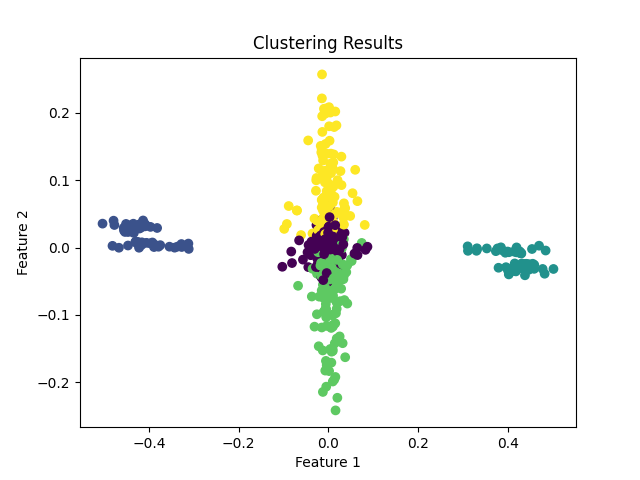
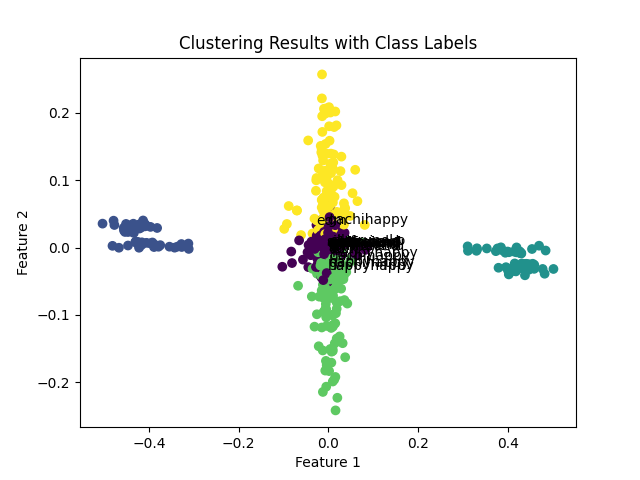
.DS_Store .git .github .gitignore Dockerfile README.md clustering Front

Changed region(s): [[0.2812, 0.0625, 0.75, 0.125], [0.5, 0.4375, 0.6562, 0.5625]]

diff --git a/clustering/python/try_min.py b/clustering/python/try_min.py
@@ -9,10 +9,23 @@ from sklearn.decomposition import PCA
 from sklearn.metrics import confusion_matrix
 import seaborn as sns
 from collections import Counter
+from scipy.interpolate import interp1d
+from sklearn.metrics import accuracy_score
 
 HAND_KEYPOINTS = [5, 6, 7, 8, 9, 10]  # 例: 手のキーポイント
 LEG_KEYPOINTS = [11, 12, 13, 14, 15, 16]      # 例: 足のキーポイント
 TORSO_KEYPOINTS = [1, 2, 3, 4] # 例: 体幹のキーポイント
+
+# クラスラベルの取得
+def get_class_labels(folder_path):
+    class_labels = []
+    for class_name in os.listdir(folder_path):
+        class_dir = os.path.join(folder_path, class_name)
+        if os.path.isdir(class_dir):
+            for filename in os.listdir(class_dir):
+                if filename.endswith('.json'):
+                    class_labels.append(class_name)
+    return class_labels
 
 # JSONファイルからキーポイントデータを読み込む関数
 def load_keypoints_from_json(folder_path):
@@ -98,6 +111,31 @@ def extract_features_for_parts(optical_flows):
         features.append(video_features)
     return features
 
+# 特徴量のリサンプリング
+def resample_features(features, target_length = 40):
+    resampled_features = []
+    for video_features in features:
+        # 現在のフレーム数
+        current_length = len(video_features)
+        # リサンプリングが必要な場合
+        if current_length != target_length:
+            # 時間軸を作成
+            time_axis = np.linspace(0, 1, current_length)
+            target_time_axis = np.linspace(0, 1, target_length)
+            # 各特徴量に対して線形補間を行い、リサンプリング
+            resampled_video_features = []
+            for i in range(len(video_features[0])):
+                interpolator = interp1d(time_axis, [feature[i] for feature in video_features], kind='linear')
+                resampled_feature = interpolator(target_time_axis)
+                resampled_video_features.append(resampled_feature)
+            # 転置して元の形状に戻す
+            resampled_video_features = np.transpose(resampled_video_features)
+        else:
+            resampled_video_features = video_features
+        resampled_features.append(resampled_video_features)
+    return resampled_features
+
+
 # KMeansでクラスタリング
 def cluster_features(features, n_clusters):
     # 特徴量を2次元配列に変換
@@ -111,15 +149,36 @@ def cluster_features(features, n_clusters):
     print(f"Total data points: {len(labels)}")
     return labels
 
+# 正誤率の計算
+def calculate_accuracy(true_labels, predicted_labels):
+    accuracy = accuracy_score(true_labels, predicted_labels)
+    return accuracy
+
+# ビデオ単位でクラスタラベルを決定
+def assign_labels_to_videos(features, labels):
+    video_labels = []
+    start_idx = 0
+    for video_features in features:
+        end_idx = start_idx + len(video_features)
+        video_cluster_labels = labels[start_idx:end_idx]
+        # 最も頻繁に割り当てられたラベルをビデオのラベルとする
+        most_common_label = Counter(video_cluster_labels).most_common(1)[0][0]
+        video_labels.append(most_common_label)
+        start_idx = end_idx
+    return video_labels
+
 # 結果をプロット
-def plot_clusters(features, labels, output_dir):
+def plot_clusters_with_labels(features, labels, class_labels, output_dir):
     all_features = np.array([f for video in features for f in video])
-    plt.scatter(all_features[:, 0], all_features[:, 1], c=labels)
+    plt.scatter(all_features[:, 0], all_features[:, 1], c=labels, cmap='viridis')
+    for i, txt in enumerate(class_labels):
+        plt.annotate(txt, (all_features[i, 0], all_features[i, 1]))
     plt.xlabel('Feature 1')
     plt.ylabel('Feature 2')
-    plt.title('Clustering Results')
+    plt.title('Clustering Results with Class Labels')
     plt.savefig(f'{output_dir}/clustering_result.png')
     plt.close()
+
 
 # メイン処理
 def main(input_dir, output_dir):
@@ -150,10 +209,16 @@ def main(input_dir, output_dir):
     # パーツごとの特徴量を結合して最終的な特徴ベクトルを作成
     final_features = [np.concatenate([hf, lf, tf], axis=1) for hf, lf, tf in zip(hand_features, leg_features, torso_features)]
 
+    # target_length = 50  # リサンプリング後のフレーム数
+    # resampled_features = resample_features(final_features, target_length)
 
     # features = extract_features(optical_flows)
     labels = cluster_features(final_features, n_clusters=5)
-    plot_clusters(final_features, labels, output_dir)
+    video_labels = assign_labels_to_videos(final_features, labels)
+    class_labels = get_class_labels(input_dir)
+    accuracy = calculate_accuracy(class_labels, video_labels)
+    print(f"Accuracy: {accuracy}")
+    plot_clusters_with_labels(final_features, labels, class_labels, output_dir)
 
 if __name__ == '__main__':
     input_dir = 'clustering/python/train/production'
